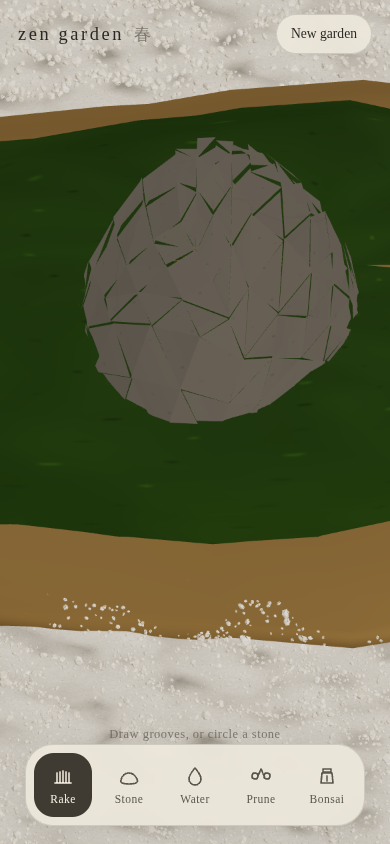
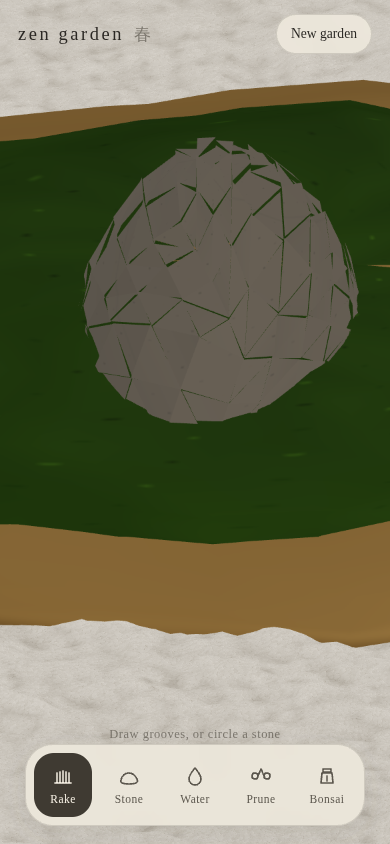
Make packed grit large enough to read at 30cm
Millimetre cells collapsed to a fuzzy overlay on smooth rails. Close-up
cells are now 6mm with stronger parallax and crevices; banks keep more
relief so a rake cut is piled grit, not a wrinkled sheet.

diff --git a/src/gravelShader.ts b/src/gravelShader.ts
@@ -72,18 +72,18 @@ export function applyPackedSandShader(
          }
          float grainHeight(vec2 world) {
            float close = smoothstep(2.4, 0.55, uZoom);
-           float freq = mix(210.0, 360.0, close);
+           float freq = mix(240.0, 158.0, close);
            vec4 a = gritCell(world, freq);
-           vec4 b = gritCell(world + vec2(0.37, 0.21), freq * 0.62);
-           float h = 0.28 + a.x * 0.72;
-           h *= mix(0.42, 1.0, a.y);
-           h = mix(h, 0.2 + b.x * 0.55, 0.28);
+           vec4 b = gritCell(world + vec2(0.37, 0.21), freq * 1.55);
+           float h = 0.18 + a.x * 0.82;
+           h *= mix(0.18, 1.0, a.y);
+           h = mix(h, 0.12 + b.x * 0.5, 0.32);
            return h;
          }
          vec2 marchGrit(vec2 world) {
            vec3 viewW = normalize(cameraPosition - vSandWorld);
            float close = smoothstep(2.4, 0.55, uZoom);
-           float amp = mix(0.0024, 0.0042, close);
+           float amp = mix(0.003, 0.0078, close);
            float drop = max(0.14, abs(viewW.y));
            vec2 walk = viewW.xz * (amp / drop);
            vec2 p = world;
@@ -119,7 +119,7 @@ export function applyPackedSandShader(
            vec2 cell = floor(transformed.xz * 42.0);
            float nick = sandHash12(cell) - 0.5;
            float nick2 = sandHash12(cell + 11.7) - 0.5;
-           transformed.y += nick * 0.011 + nick2 * 0.006;
+           transformed.y += nick * 0.016 + nick2 * 0.009;
            transformed.x += nick2 * 0.0035;
            transformed.z += nick * 0.0035;
            vSandWorld = (modelMatrix * vec4(transformed, 1.0)).xyz;
@@ -136,7 +136,7 @@ export function applyPackedSandShader(
          vec2 world = (uv - 0.5) * uGarden;
          vGritP = marchGrit(world);
          float close = smoothstep(2.4, 0.55, uZoom);
-         vec4 cell = gritCell(vGritP, mix(210.0, 360.0, close));
+         vec4 cell = gritCell(vGritP, mix(240.0, 158.0, close));
          float gH = grainHeight(vGritP);
          vec4 fieldS = texture2D(uField, uv);
          float fh = fieldS.r;
@@ -147,15 +147,15 @@ export function applyPackedSandShader(
          float curve = 4.0 * fh - hL - hR - hDn - hUp;
          float trough = clamp(-curve * 3.6, 0.0, 1.0);
          float crest = clamp(curve * 3.6, 0.0, 1.0);
-         vec3 pale = vec3(0.94, 0.91, 0.86);
-         vec3 midc = vec3(0.87, 0.84, 0.78);
-         vec3 deep = vec3(0.70, 0.66, 0.60);
+         vec3 pale = vec3(0.95, 0.92, 0.86);
+         vec3 midc = vec3(0.86, 0.83, 0.76);
+         vec3 deep = vec3(0.62, 0.58, 0.52);
          vec3 col = mix(deep, midc, cell.y);
-         col = mix(col, pale, cell.x * 0.55 * cell.y);
-         col *= 0.78 + gH * 0.28;
-         col *= mix(1.0, 0.72, trough);
-         col *= mix(1.0, 1.08, crest);
-         col += vec3(0.03, 0.025, 0.016) * crest * gH;
+         col = mix(col, pale, cell.x * 0.62 * cell.y);
+         col *= 0.7 + gH * 0.38;
+         col *= mix(1.0, 0.68, trough);
+         col *= mix(1.0, 1.1, crest);
+         col += vec3(0.035, 0.028, 0.016) * crest * gH;
          diffuseColor.rgb = col;
         `,
       )
@@ -175,12 +175,12 @@ export function applyPackedSandShader(
            vec3 hx = vec3(uGarden.x * uTexel.x, (texture2D(uField, uvN + vec2(uTexel.x, 0.0)).r - fld.r) * uHeightRange, 0.0);
            vec3 hz = vec3(0.0, (texture2D(uField, uvN + vec2(0.0, uTexel.y)).r - fld.r) * uHeightRange, uGarden.y * uTexel.y);
            vec3 slopeN = normalize(cross(hz, hx));
-           normal = normalize(mix(normal, slopeN, 0.34));
-           normal = normalize(mix(normal, gritN, mix(0.4, 0.72, closeN)));
+           normal = normalize(mix(normal, slopeN, 0.28));
+           normal = normalize(mix(normal, gritN, mix(0.48, 0.82, closeN)));
          }
         `,
       );
   };
-  mat.customProgramCacheKey = () => `packed-sand-pom-v2-${steps}`;
+  mat.customProgramCacheKey = () => `packed-sand-pom-v3-${steps}`;
   return look;
 }

diff --git a/src/sand.ts b/src/sand.ts
@@ -104,13 +104,13 @@ export class SandField {
       roughness: 0.96,
       metalness: 0,
       displacementMap: this.texture,
-      displacementScale: H_RANGE * 0.68,
-      displacementBias: H_MIN * 0.68,
+      displacementScale: H_RANGE * 0.9,
+      displacementBias: H_MIN * 0.9,
       envMapIntensity: 0,
       emissive: 0x2a261e,
       emissiveIntensity: 0.08,
     });
-    this.look = applyPackedSandShader(mat, this.texture, GARDEN.width, GARDEN.depth, H_RANGE * 0.68);
+    this.look = applyPackedSandShader(mat, this.texture, GARDEN.width, GARDEN.depth, H_RANGE * 0.9);
 
     this.mesh = new THREE.Mesh(geo, mat);
     this.mesh.position.y = GARDEN.sandY;
@@ -660,7 +660,7 @@ export class SandField {
         let h = this.sampleBilinear(fi, fj);
         const ix = this.clampI(Math.floor(fi));
         const jz = this.clampJ(Math.floor(fj));
-        const grain = hash2(i * 13 + 7, j * 17 + 3) * 0.02 - 0.01;
+        const grain = hash2(i * 13 + 7, j * 17 + 3) * 0.028 - 0.014;
         h += grain;
         const dx = this.sampleDirX(ix, jz);
         const dz = this.sampleDirZ(ix, jz);

diff --git a/tests/screenshots.spec.ts b/tests/screenshots.spec.ts
@@ -64,7 +64,7 @@ test.describe("screenshots", () => {
       window.__ZEN_GARDEN__!.setCamera({
         azimuth: 0.78,
         elevation: 0.58,
-        zoom: 5.6,
+        zoom: 4.15,
         tx: 0.15,
         tz: 0.12,
       });
